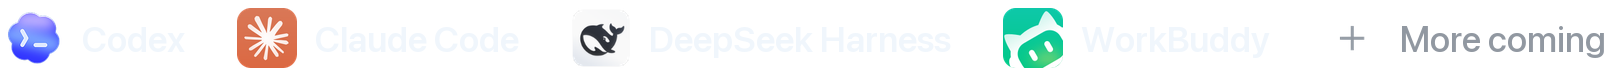
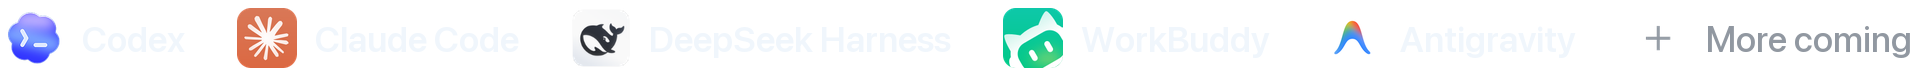
Bring the README up to 4.8
The agent strip adds Antigravity, the banner says in one line that
Pacer now supports it, and the features mention subagents under their
task, Antigravity quota by model group and opening on click.

diff --git a/README.md b/README.md
@@ -17,7 +17,7 @@ Pacer keeps an eye on every task for you, so you stay focused and get more done.
 <p>
 <picture>
   <source media="(prefers-color-scheme: dark)" srcset="docs/assets/readme-agents-dark.png">
-  <img src="docs/assets/readme-agents-light.png" width="805" alt="Works with Codex, Claude Code, DeepSeek Harness and WorkBuddy, with more agents coming">
+  <img src="docs/assets/readme-agents-light.png" width="958" alt="Works with Codex, Claude Code, DeepSeek Harness, WorkBuddy and Antigravity, with more agents coming">
 </picture>
 </p>
 
@@ -38,7 +38,7 @@ Pacer keeps an eye on every task for you, so you stay focused and get more done.
 </div>
 
 > [!TIP]
-> **New in 4.8: Google Antigravity.** Follow each Antigravity task, its subagents, its speed and both quota pools, with the same progress ring as Codex and Claude. [See what each agent shows](#supported-agents).
+> **New in 4.8: Pacer now supports Google Antigravity.** [See what each agent shows](#supported-agents).
 
 ## Why Pacer
 
@@ -66,7 +66,7 @@ A task that waits for your approval or reply turns the island amber and moves to
 
 ## Several agents at once, still in order
 
-Tasks on this computer, on your SSH hosts, in WSL and in Claude's cloud Projects share one list, each with its stage, model, speed and turn time.
+Tasks on this computer, on your SSH hosts, in WSL and in Claude's cloud Projects share one list, each with its stage, model, speed and turn time. Subagents show under their task.
 
 <table>
 <thead>
@@ -114,7 +114,7 @@ The welcome guide walks you through these when you first open Pacer.
 
 ## How much is left, and how fast it's going
 
-Codex and Claude show their 5-hour and weekly quota on one ring, with a tick for an even pace and a forecast for the reset. DeepSeek shows your balance and today's spend hour by hour, with budgets if you want them. WorkBuddy shows this month's credits and when extra credits expire.
+Codex and Claude show their 5-hour and weekly quota on one ring, with a tick for an even pace and a forecast for the reset. DeepSeek shows your balance and today's spend hour by hour, with budgets if you want them. WorkBuddy shows this month's credits and when extra credits expire. Antigravity shows short-term and weekly quota for each model group.
 
 <img src="docs/assets/readme-quota.png" width="100%" alt="Codex and Claude quota, each with its 5-hour and weekly windows, pace and a forecast for the reset">
 
@@ -128,7 +128,7 @@ Turn on **Claude calls Codex** in **Settings → Collaboration**, then just ask 
 
 ## Put it anywhere, make it yours
 
-Keep it at the top center of the screen, or drag it anywhere and let it snap to an edge. Choose black, graphite or Liquid Glass, one of four sizes, and what the collapsed bar shows. Each display remembers its own place.
+Keep it at the top center of the screen, or drag it anywhere and let it snap to an edge. Open it on hover or with a click. Choose black, graphite or Liquid Glass, one of four sizes, and what the collapsed bar shows. Each display remembers its own place.
 
 <img src="docs/assets/readme-forms.png" width="100%" alt="The collapsed bar floating over a window, snapped to the side of the screen, and snapped to the bottom">
 
